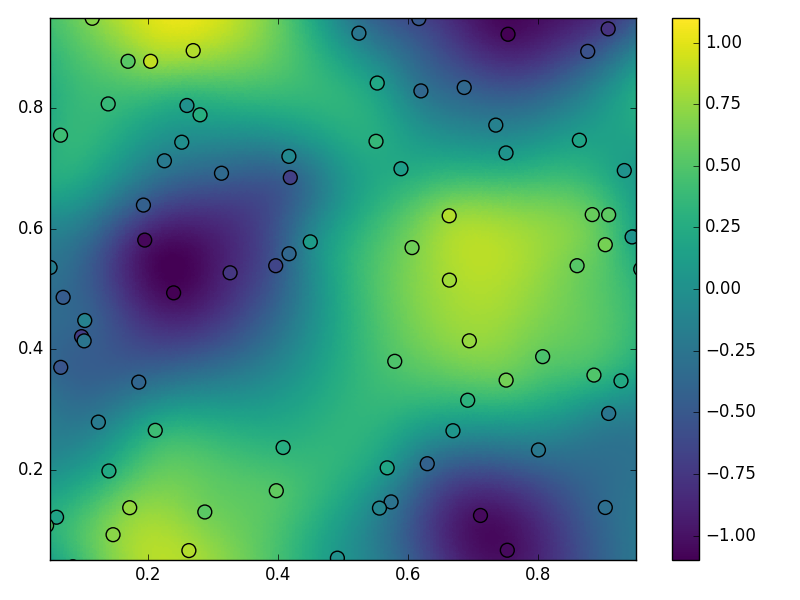
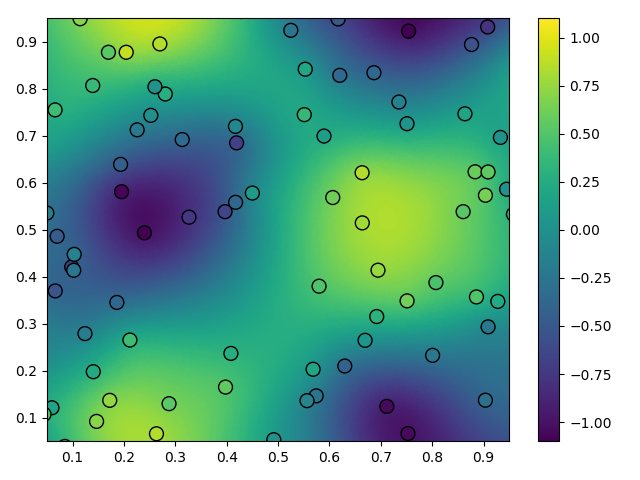
updated interpolate script;

diff --git a/docs/scripts/interpolate.a.py b/docs/scripts/interpolate.a.py
@@ -1,24 +1,28 @@
 ''' 
-In this example we generate synthetic scattered data with added noise 
-and then fit it with a smoothed interpolant. See rbf.filter for 
-smoothing large data sets.
+In this example we generate synthetic scattered data with added noise
+and then fit it with a smoothed RBF interpolant. The interpolant in
+this example is equivalent to a thin plate spline.
 '''
 import numpy as np
 from rbf.interpolate import RBFInterpolant
+import rbf.basis
 import matplotlib.pyplot as plt
 np.random.seed(1)
+
+basis = rbf.basis.phs2
+order = 1
 
 x_obs = np.random.random((100,2)) # observation points
 u_obs = np.sin(2*np.pi*x_obs[:,0])*np.cos(2*np.pi*x_obs[:,1]) # signal
 u_obs += np.random.normal(0.0,0.2,100) # add noise to signal
-I = RBFInterpolant(x_obs,u_obs,penalty=0.02) # instantiate Interpolant
+I = RBFInterpolant(x_obs,u_obs,penalty=0.1,basis=basis,order=order)
 vals = np.linspace(0,1,200)
 x_itp = np.reshape(np.meshgrid(vals,vals),(2,200*200)).T # interp points
 u_itp = I(x_itp) # evaluate the interpolant
-
 # plot the results
 plt.tripcolor(x_itp[:,0],x_itp[:,1],u_itp,vmin=-1.1,vmax=1.1,cmap='viridis')
-plt.scatter(x_obs[:,0],x_obs[:,1],s=100,c=u_obs,vmin=-1.1,vmax=1.1,cmap='viridis')
+plt.scatter(x_obs[:,0],x_obs[:,1],s=100,c=u_obs,vmin=-1.1,vmax=1.1,
+            cmap='viridis',edgecolor='k')
 plt.xlim((0.05,0.95))
 plt.ylim((0.05,0.95))
 plt.colorbar()

diff --git a/rbf/interpolate.py b/rbf/interpolate.py
@@ -159,10 +159,6 @@ class RBFInterpolant(object):
 
   Notes
   -----
-  This function involves solving a dense system of equations, which 
-  will be prohibitive for large data sets. See *rbf.filter* for 
-  smoothing large data sets. 
-  
   This function does not make any estimates of the uncertainties on 
   the interpolated values.  See *rbf.gauss* for interpolation with 
   uncertainties.

diff --git a/README.rst b/README.rst
@@ -55,37 +55,39 @@ Demonstration
 Smoothing Scattered Data
 ------------------------
 .. code-block:: python
-
+  
   ''' 
-  In this example we generate synthetic scattered data with added noise 
-  and then fit it with a smoothed interpolant. See rbf.filter for 
-  smoothing large data sets.
+  In this example we generate synthetic scattered data with added noise
+  and then fit it with a smoothed RBF interpolant. The interpolant in
+  this example is equivalent to a thin plate spline.
   '''
   import numpy as np
   from rbf.interpolate import RBFInterpolant
+  import rbf.basis
   import matplotlib.pyplot as plt
   np.random.seed(1)
+  
+  basis = rbf.basis.phs2
+  order = 1  
 
-  # create noisy data
   x_obs = np.random.random((100,2)) # observation points
-  u_obs = np.sin(2*np.pi*x_obs[:,0])*np.cos(2*np.pi*x_obs[:,1])
-  u_obs += np.random.normal(0.0,0.2,100)
-
-  # create smoothed interpolant
-  I = RBFInterpolant(x_obs,u_obs,penalty=0.001)
-
-  # create interpolation points
-  x_itp = np.random.random((10000,2))
-  u_itp = I(x_itp)
-
+  u_obs = np.sin(2*np.pi*x_obs[:,0])*np.cos(2*np.pi*x_obs[:,1]) # signal
+  u_obs += np.random.normal(0.0,0.2,100) # add noise to signal
+  I = RBFInterpolant(x_obs,u_obs,penalty=0.1,basis=basis,order=order)
+  vals = np.linspace(0,1,200)
+  x_itp = np.reshape(np.meshgrid(vals,vals),(2,200*200)).T # interp points
+  u_itp = I(x_itp) # evaluate the interpolant
+  # plot the results
   plt.tripcolor(x_itp[:,0],x_itp[:,1],u_itp,vmin=-1.1,vmax=1.1,cmap='viridis')
-  plt.scatter(x_obs[:,0],x_obs[:,1],s=100,c=u_obs,vmin=-1.1,vmax=1.1,cmap='viridis')
+  plt.scatter(x_obs[:,0],x_obs[:,1],s=100,c=u_obs,vmin=-1.1,vmax=1.1,
+              cmap='viridis',edgecolor='k')
   plt.xlim((0.05,0.95))
   plt.ylim((0.05,0.95))
   plt.colorbar()
   plt.tight_layout()
+  plt.savefig('../figures/interpolate.a.png')
   plt.show()
-
+  
 .. figure:: docs/figures/interpolate.a.png
 
   Plot generated by the above code. Observations are shown as 
